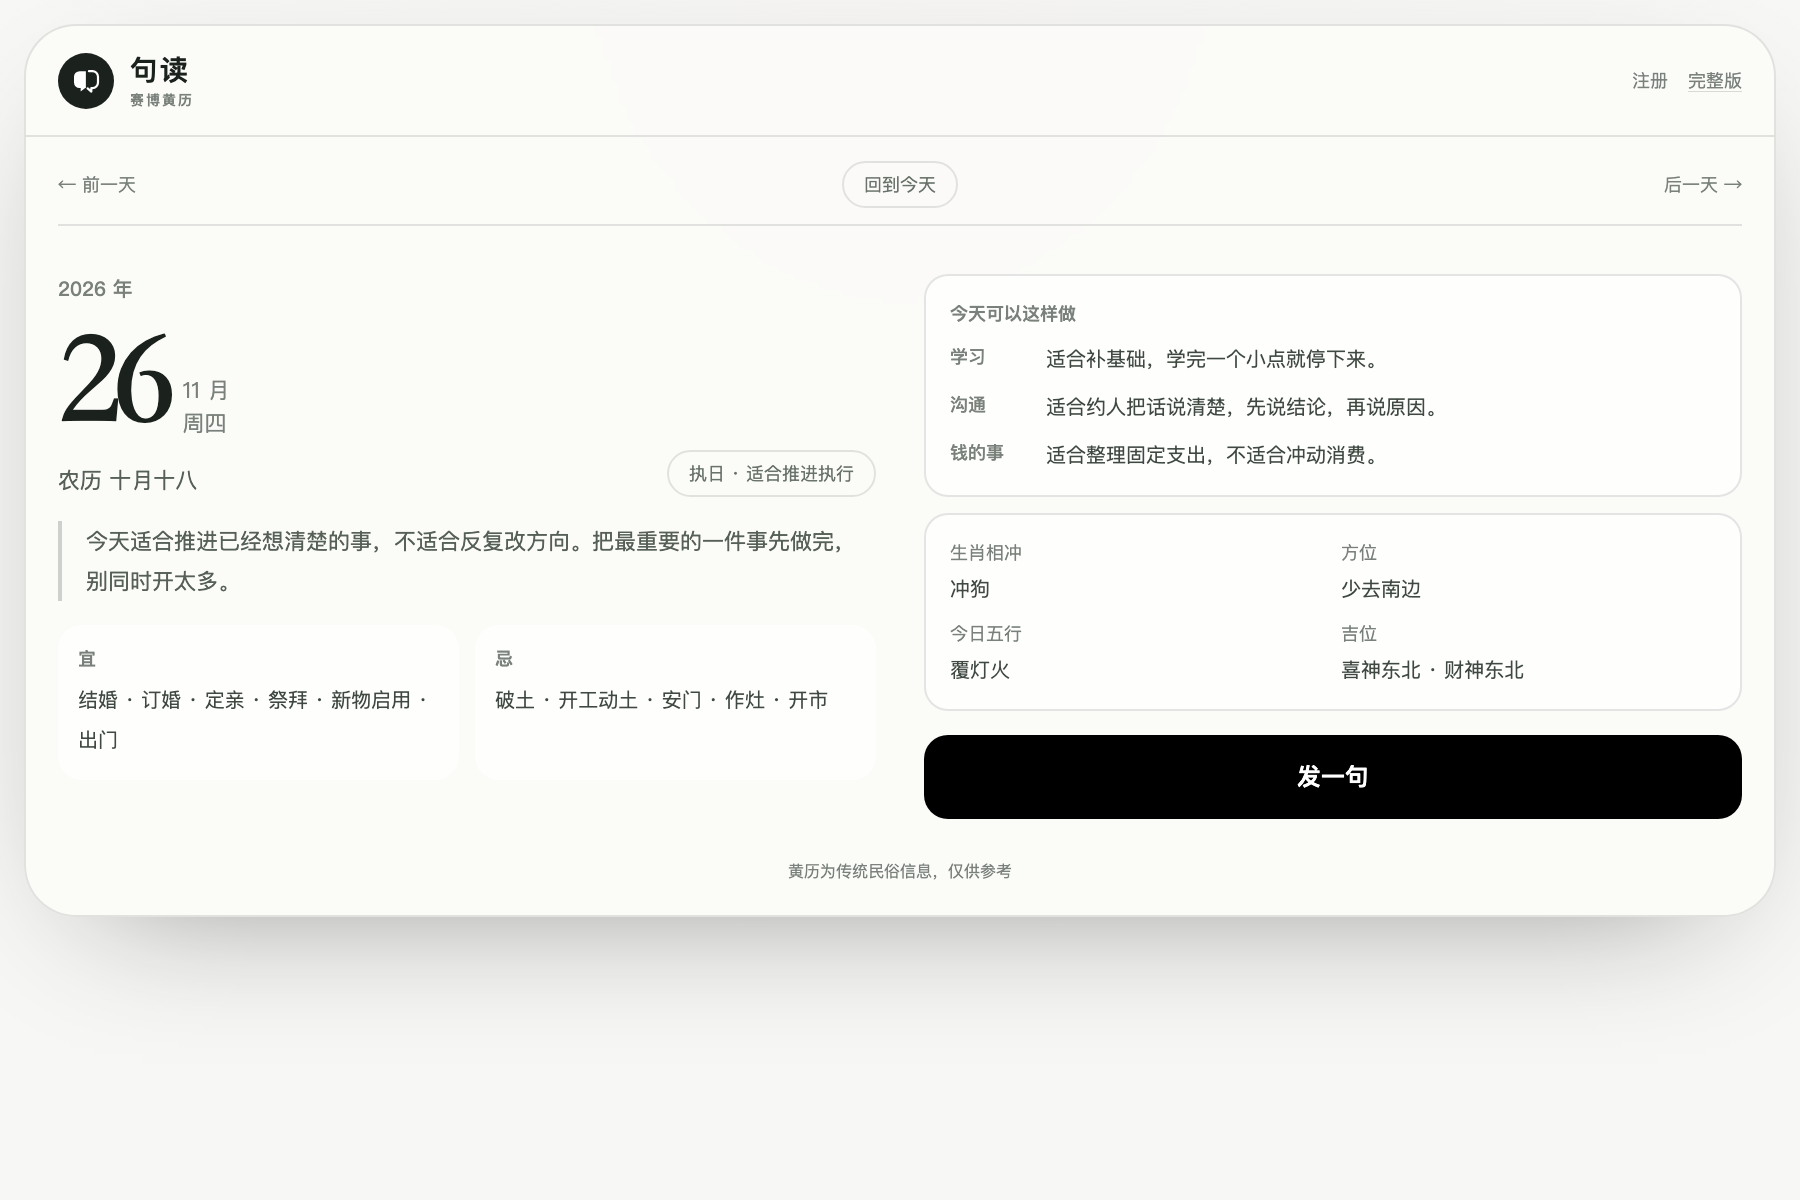
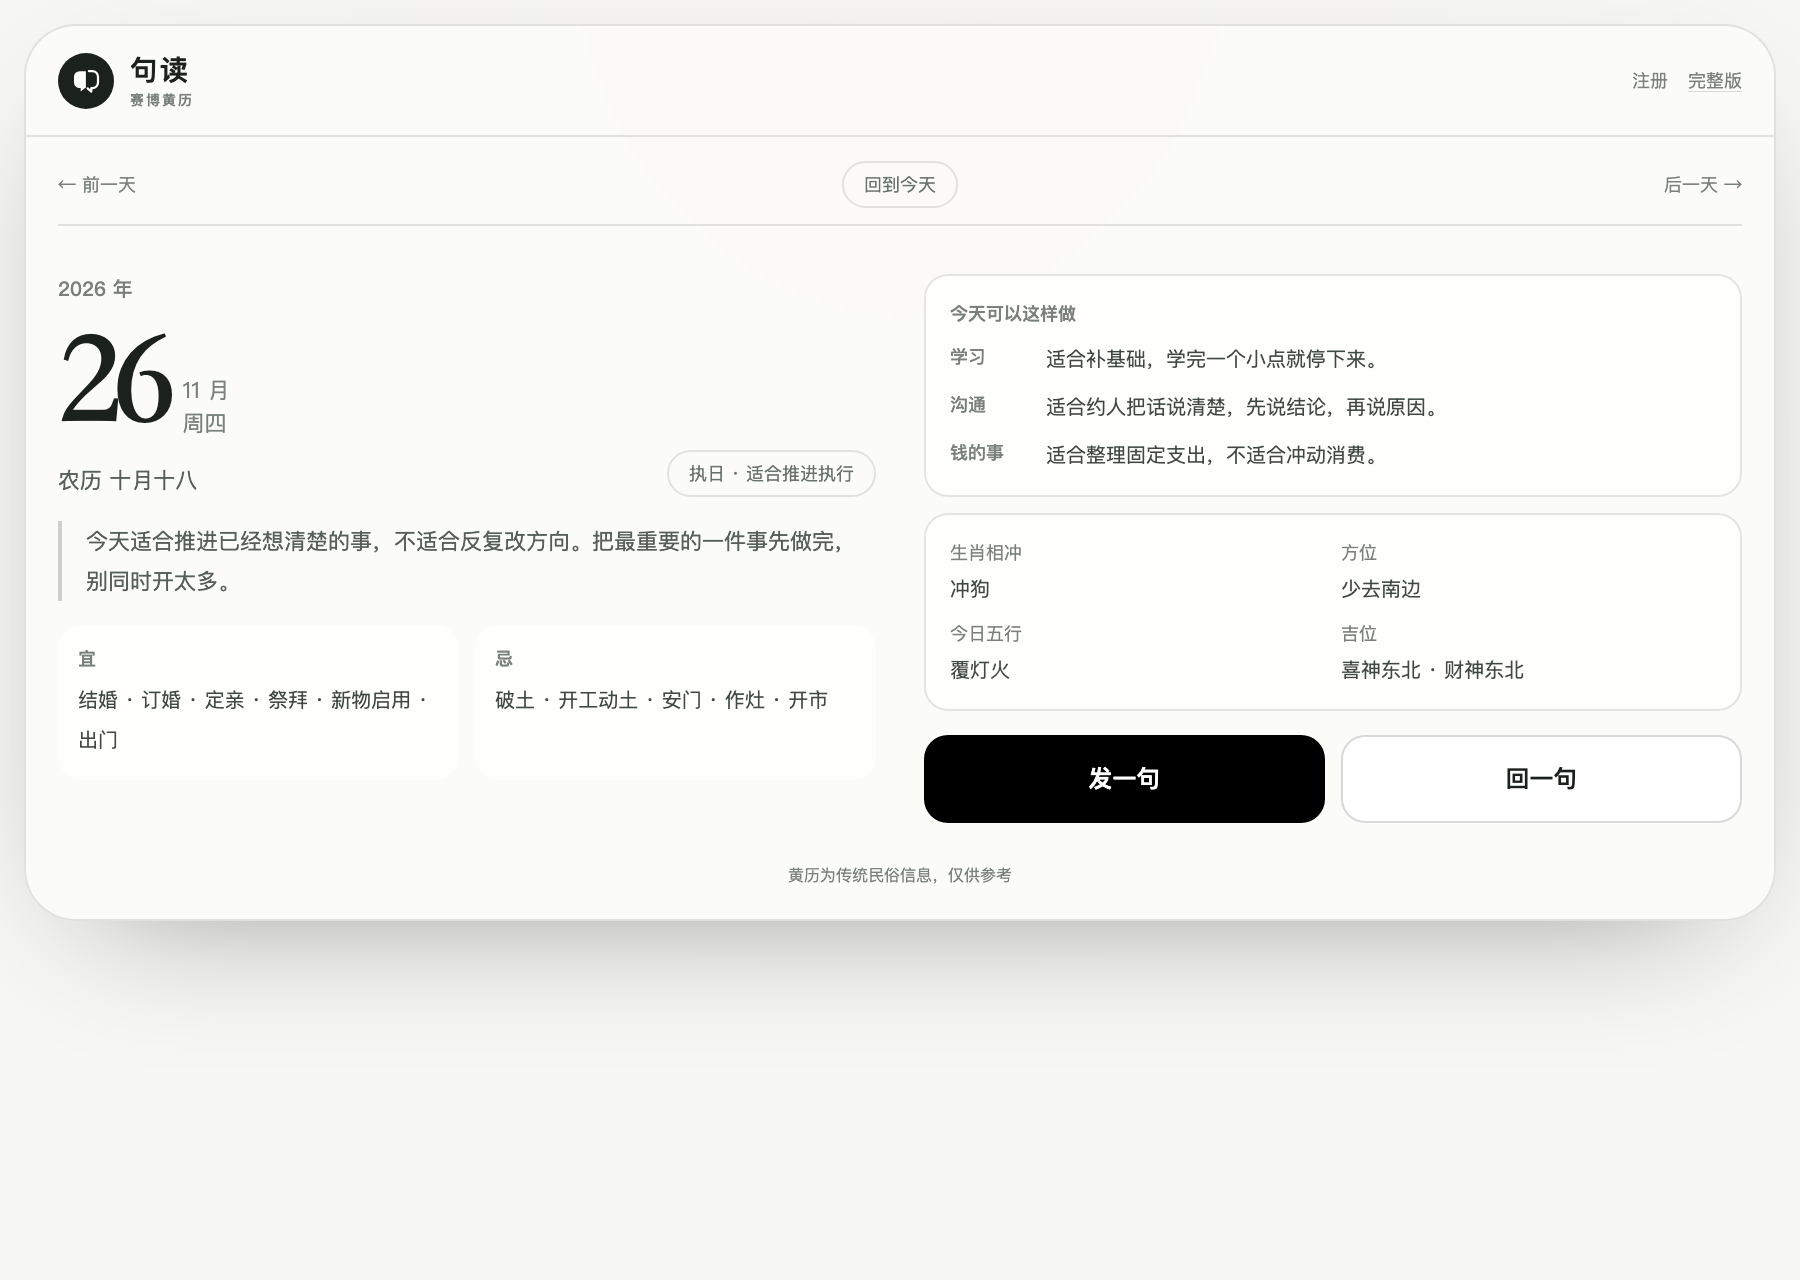
黄历页加回一句按钮，桌面组件修复启动与窗口高度
- 黄历页底部：发一句（黑底，主动开口）+ 回一句（白底黑字，解读回复）
- 新增桌面端主动开口页：输入想法给 3 种开场
- 桌面端用 PID 文件管理本地服务，退出即清理，不再占满端口
- 修复 vh 高度导致窗口反复长大、以及输入框不自动聚焦的问题
- 服务健康检查改为同时验证页面与构建号

diff --git a/desktop-widget/Sources/JudouWidget/main.swift b/desktop-widget/Sources/JudouWidget/main.swift
@@ -13,6 +13,8 @@ final class AppDelegate: NSObject, NSApplicationDelegate, WKScriptMessageHandler
   private var userResized = false
   /// 程序自己调整高度时，不要被当成用户拖动。
   private var isAutoResizing = false
+  /// 记录自己拉起的服务进程，退出或异常结束后下次启动能清理掉。
+  private let pidFile = "/tmp/judou-widget-server.pid"
 
   func applicationDidFinishLaunching(_ notification: Notification) {
     // 只允许一个句读实例，避免重复启动本地服务互相抢端口。
@@ -26,6 +28,8 @@ final class AppDelegate: NSObject, NSApplicationDelegate, WKScriptMessageHandler
         return
       }
     }
+
+    killPreviousServer()
 
     NSApp.setActivationPolicy(.accessory)
     setupStatusItem()
@@ -242,6 +246,23 @@ final class AppDelegate: NSObject, NSApplicationDelegate, WKScriptMessageHandler
     ]
     try? process.run()
     serverProcess = process
+    try? "\(process.processIdentifier)".write(
+      toFile: pidFile,
+      atomically: true,
+      encoding: .utf8
+    )
+  }
+
+  /// 上次没正常退出时留下的服务进程，直接收掉，避免端口一个个被占满。
+  private func killPreviousServer() {
+    guard
+      let raw = try? String(contentsOfFile: pidFile, encoding: .utf8),
+      let pid = Int32(raw.trimmingCharacters(in: .whitespacesAndNewlines)),
+      pid > 0
+    else { return }
+
+    kill(pid, SIGTERM)
+    try? FileManager.default.removeItem(atPath: pidFile)
   }
 
   private func waitForServer(port: Int, attempts: Int) {
@@ -355,13 +376,10 @@ final class AppDelegate: NSObject, NSApplicationDelegate, WKScriptMessageHandler
   }
 
   private func stopOwnServer() {
-    if ownsServer {
-      serverProcess?.terminate()
-      let killer = Process()
-      killer.executableURL = URL(fileURLWithPath: "/bin/zsh")
-      killer.arguments = ["-lc", "pkill -f 'next.*-p \(widgetPort)' >/dev/null 2>&1 || true"]
-      try? killer.run()
+    if ownsServer, let pid = serverProcess?.processIdentifier {
+      kill(pid, SIGTERM)
     }
+    try? FileManager.default.removeItem(atPath: pidFile)
   }
 
   func applicationWillTerminate(_ notification: Notification) {

diff --git a/README.md b/README.md
@@ -15,7 +15,7 @@
 - 关系信任：非暧昧场景显示信任度/配合度和趋势
 - 三种回法：委婉 / 幽默 / 直球；幽默卡内可切换「轻松 / 冷幽默」
 - 电子黄历：真实日期、农历、宜忌、冲煞、五行、吉位、学习/沟通/钱三块建议
-- 桌面小组件：默认就是展开的详细黄历，底部直接“发一句”
+- 桌面小组件：默认就是展开的详细黄历，底部并排「发一句」（主动开口）和「回一句」（解读回复）
 - 桌面窗口可自由缩放；窗口变宽后会自动切换横向排版
 - 多对象库：对象名称、关系、性别、备注存在本机，切换对象自动带资料
 - 对话记忆：每个对象保存最近 5 次分析摘要，下次自动作为上下文参考
@@ -44,7 +44,11 @@ zsh desktop-widget/build-app.sh
 open "desktop-widget/句读桌面黄历.app"
 ```
 
-打开就是完整黄历，不再需要点“展开”。窗口可自由拖动、缩放；宽度超过 620 后自动切成左右两栏，底部点“发一句”直接进入回复。
+打开就是完整黄历，不再需要点“展开”。窗口可自由拖动、缩放；宽度超过 620 后自动切成左右两栏。
+
+底部两个按钮：
+- **发一句**（黑底）：想找对方但不知道怎么说，输入你的想法，给 3 种开场
+- **回一句**（白底黑字）：贴对方的话进来，先给内心 OS 和下一句，再给 3 种回法
 
 小组件的启动逻辑：
 - 先检查 `127.0.0.1:3211`、`4321` 上有没有可用的句读服务，并且核对构建号，避免连到旧版本
